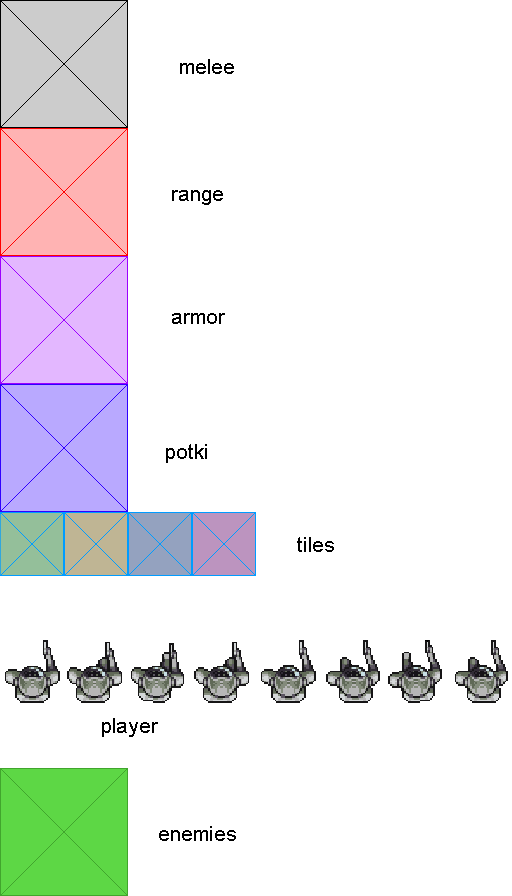
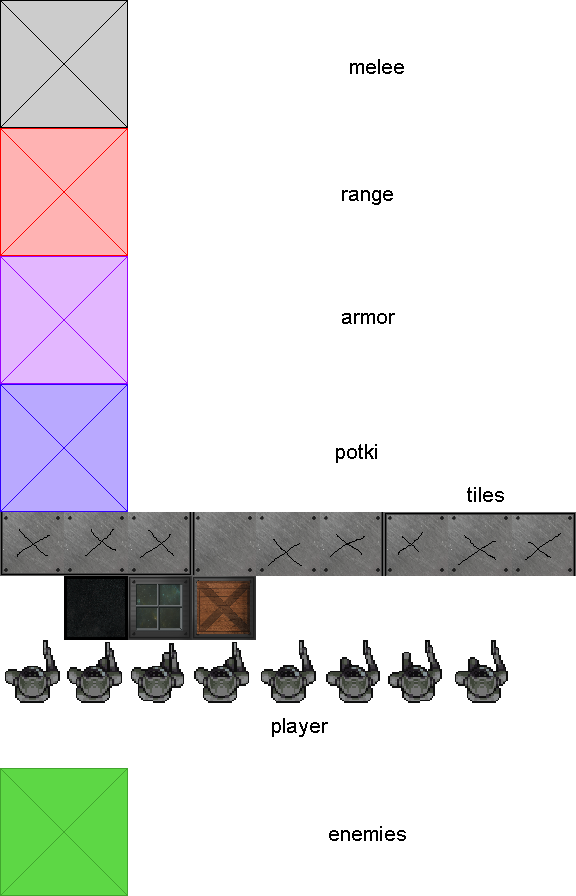
Added types of tiles 1-9

diff --git a/Projekt RPG/Projekt RPG/Level.cpp b/Projekt RPG/Projekt RPG/Level.cpp
@@ -37,6 +37,26 @@ Level::Tile Level::getTile(short tileCode)
 		tile.isWall = true;
 		tile.isInteraction = true;
 		break;
+	case TYPE5:
+		tile.isWall = true;
+		tile.isInteraction = true;
+		break;
+	case TYPE6:
+		tile.isWall = true;
+		tile.isInteraction = true;
+		break;
+	case TYPE7:
+		tile.isWall = true;
+		tile.isInteraction = true;
+		break;
+	case TYPE8:
+		tile.isWall = true;
+		tile.isInteraction = true;
+		break;
+	case TYPE9:
+		tile.isWall = true;
+		tile.isInteraction = true;
+		break;
 	default:
 		tile.isWall = false;
 		tile.isInteraction = false;

diff --git a/Projekt RPG/Projekt RPG/Level.h b/Projekt RPG/Projekt RPG/Level.h
@@ -7,7 +7,7 @@ using namespace std;
 class Level
 {
 public:
-	enum TileType { TYPE1, TYPE2, TYPE3, TYPE4, COUNT }; /*Reminder - do zmiany na jakies normalne nazwy*/
+	enum TileType { TYPE1, TYPE2, TYPE3, TYPE4, TYPE5, TYPE6, TYPE7, TYPE8, TYPE9, COUNT }; /*Reminder - do zmiany na jakies normalne nazwy*/
 	struct Tile
 	{
 		TileType type;
